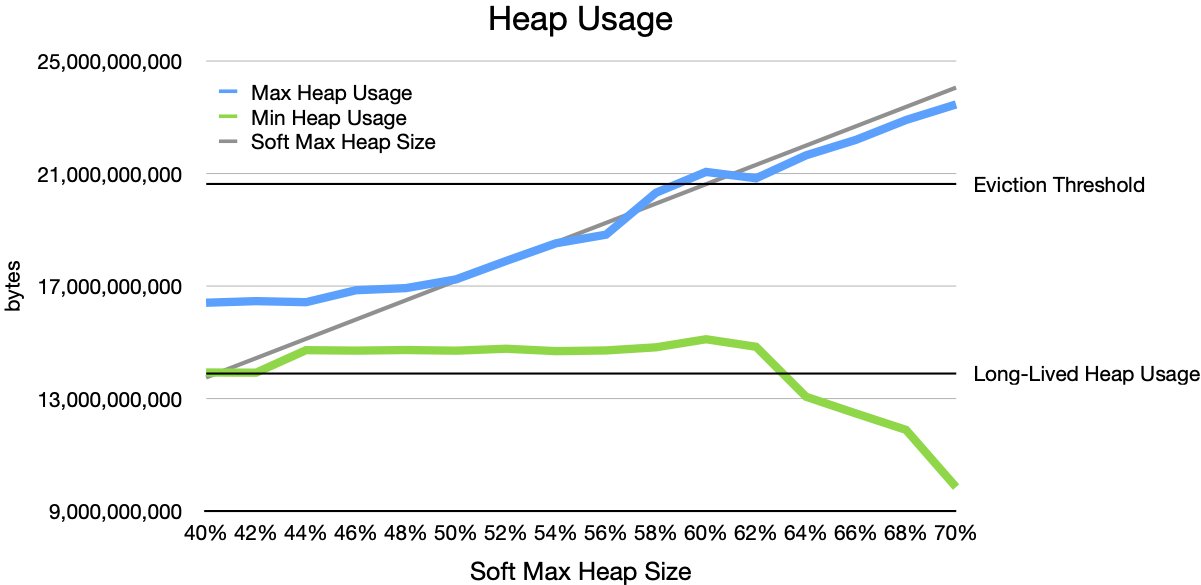
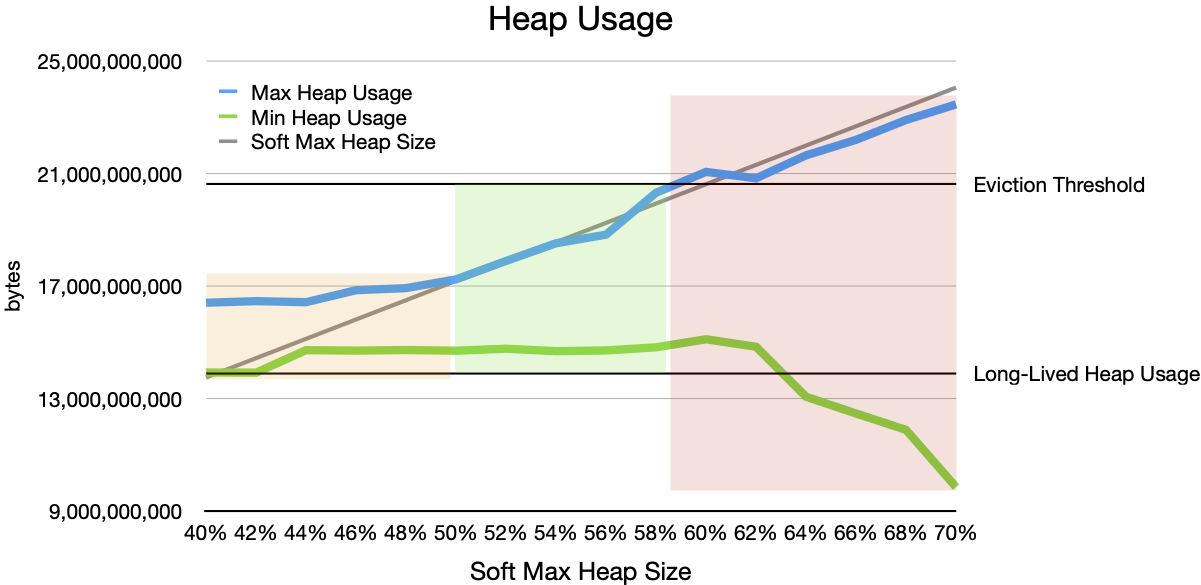
Complete draft

Changed region(s): [[0.154, 0.1538, 0.801, 0.8615]]

diff --git a/content/blog/zgc-and-heap-lru-eviction/index.md b/content/blog/zgc-and-heap-lru-eviction/index.md
@@ -1,108 +1,110 @@
 ---
-date: 2023-03-23
-description: How GemFire's heap LRU eviction works with Java's Z garbage collector.
-lastmod: '2023-03-24'
-team:
-- Dale Emery
-title: ZGC and GemFire Heap LRU Eviction
+date: 2023-03-30
+description: ZGC works with GemFire's heap LRU eviction to maximize cache performance.
+team: [Dale Emery]
+title: Maximizing GemFire Cache Performance with ZGC and Heap LRU Eviction
 type: blog
-draft: true
 ---
 
 ## Introduction
-Heap LRU eviction is an algorithm for maintaining cache performance while protecting against the risk of the JVM running out of memory. GemFire's heap LRU eviction algorithm relies on the JVM's garbage collector to very quickly collect the memory used by evicted entries. When tuned for this purpose, ZGC is well suited for use with heap LRU eviction.
+VMware GemFire offers a heap LRU eviction algorithm to maintain cache performance while protecting against the risk of the JVM running out of memory. Java 17's Z garbage collector (ZGC), when tuned for use with heap LRU eviction, works beautifully with GemFire to maximize cache performance.
 
 ### How Heap LRU Eviction Works
-Heap LRU eviction is an algorithm for maintaining cache performance while protecting against the risk of the JVM running out of memory. In VMware GemFire, heap LRU eviction works like this: GemFire continually monitors heap usage. When heap usage exceeds a user-configured eviction threshold, GemFire evicts entries from memory until heap usage falls back below the threshold.
+Heap LRU eviction is an algorithm for maintaining cache performance while protecting against the risk of the JVM running out of memory. In VMware GemFire, heap LRU eviction works like this: GemFire continually monitors heap usage. When heap usage exceeds a user-configured threshold, GemFire evicts eligible entries from memory until heap usage falls back below the threshold.
 
 Every entry evicted from memory increases the chance of a cache miss, which can reduce cache performance. To maintain cache performance, GemFire tries to evict the entries that are the least likely to be used in the near future. To choose which entries to evict, LRU eviction assumes that the least recently used entries are the least likely to be used again in the near future. When the workload satisfies this assumption, evicting the least recently used entries minimizes the chance of a cache miss.
 
 GemFire's heap LRU eviction algorithm relies on the JVM's garbage collector to very quickly collect the memory used by evicted entries. Evicting an entry does not, all by itself, make the entry's memory available for allocation. It merely makes the object and its memory "unreachable." This unreachable memory becomes available for allocation only when the garbage collector collects it. Until the memory from evicted entries is collected, heap usage remains high.
 
-### ZGC's Decision Heuristics
-Java 17's Z garbage collector (ZGC) works to ensure that any thread that requests memory can get it with minimal delay. And ZGC strives to do this with minimal impact on application performance.
+### How ZGC Decides When to Collect Garbage
+**ZGC Goals.** ZGC works to ensure that any thread that requests memory can get it with minimal delay. If an application thread attempts to allocate more memory than is currently available, ZGC pauses that thread until a garbage collection completes. This pause is called an _allocation stall._ ZGC works very hard to avoid allocation stalls, and to do this with minimal impact on application performance.
 
-If an application thread attempts to allocate more memory than is currently available, ZGC pauses that thread until a garbage collection completes. This pause is called an _allocation stall._ ZGC works very hard to avoid allocation stalls.
+**ZGC Decision Rules.** Ten times per second, ZGC samples the application's heap usage and memory allocation rate, then applies seven rules to decide whether to initiate garbage collection. One rule, the High Usage rule, checks whether heap usage is above ZGC's target maximum heap usage, or is close enough to the target to cause concern. Another, the Allocation Rate rule, predicts whether the application is likely to run out of available heap memory if ZGC does not intervene immediately.
 
-Ten times per second, ZGC samples the application's memory allocation rate, then evaluates a series of heuristics to decide whether to initiate garbage collection. One heuristic, the High Usage heuristic, checks whether current heap usage is currently above ZGC's target maximum heap usage, or is close enough to the target to cause concern. Another, the Allocation Rate heuristic, predicts whether heap usage would exceed the target maximum if ZGC didn't begin collecting immediately, given the application's recent allocation requests and ZGC's recent collection performance.
+### Tuning ZGC for Use with Heap LRU Eviction
+When tuned for the purpose, ZGC is well suited for use with heap LRU eviction. To tune ZGC well, you will need to know some key characteristics of your workload, and the key tuning knobs at your disposal.
 
-### Heap LRU Eviction and ZGC
-When tuned for the purpose, ZGC is well suited for use with heap LRU eviction. Java offers two key JVM options to tune ZGC for this use:
-- `-Xmx` sets the JVM's maximum heap size. For a given workload, a larger heap size reduces the chance of allocation stalls, and allows ZGC to work efficiently with fewer worker threads.
-- `-XX:SoftMaxHeapSize` sets ZGC's "soft" limit for maximum heap usage. ZGC will strive to keep heap usage below this limit, but may allow heap usage to exceed it when necessary. As I will show, setting `SoftMaxHeapSize` lower reduces the risk of eviction, but makes garbage collections more frequent and less efficient.
+**Workload heap usage.** To tune ZGC well, you will need to know several key characteristics of your workload's heap usage:
+- **Long-lived heap usage:** The amount of heap that GemFire requires in order to hold cached data in memory. This includes the memory used for the data's keys and values, plus the data structures that GemFire uses to maintain the data, plus other long-lived data structures that GemFire uses in order to present its services. Long-lived heap usage does not include the short-lived objects that GemFire uses to perform a particular operation.
+- **Live set size:** The amount of heap used by all live objects. This includes long-lived objects and any short-lived objects currently in use. Over time, GemFire's ZHeap Collection Used Memory statistic gives an approximation of live set size.
 
-Another key factor in a well-tuned GemFire system is the workload's _long-lived heap usage:_ The amount of heap that GemFire requires in order to hold cached data in memory. This includes the memory used for the data's keys and values, plus the data structures that GemFire uses to maintain the data, plus other long-lived data structures that GemFire uses in order to present its services. Long-lived heap usage does not include the transient objects that GemFire uses to perform a particular operation.
+**ZGC tuning knobs.** Java offers two key JVM options to tune ZGC for use with heap LRU eviction:
+- **`-Xmx`:** The JVM's maximum heap size. For a given workload, a larger heap size reduces the chance of allocation stalls, and allows ZGC to work efficiently with fewer worker threads.
+- **`-XX:SoftMaxHeapSize`:** ZGC's "soft" limit for maximum heap usage. ZGC will strive to keep heap usage below this limit, but may allow heap usage to exceed it when necessary. As I will show, setting `SoftMaxHeapSize` lower reduces the risk of eviction, but makes garbage collections more frequent and less CPU-efficient. Setting it higher reduces ZGC's CPU consumption, but increases the risk of eviction.
+
+**GemFire tuning knobs.** GemFire's primary tuning knob for governing heap LRU eviction is:
+- **`--eviction-heap-percentage`:** GemFire's target heap usage threshold, expressed as a percentage of max heap size. Whenever heap usage exceeds this threshold, GemFire evicts entries to bring heap usage down.
 
 ## Experimenting with SoftMaxHeapSize
-To quantify how `SoftMaxHeapSize` affects heap usage, operation throughput, and garbage collection performance, I ran a series of scenarios on a GCP instance with 16 CPUs. Each scenario:
+To understand how `SoftMaxHeapSize` affects heap usage, operation throughput, and garbage collection performance, I ran a series of scenarios on a GCP instance with 16 CPUs. Each scenario:
 1. Starts a GemFire server with max heap size (`-Xmx`) set to 32g and with GemFire's eviction threshold set to 60%.
 1. Pre-populates a set of heap LRU regions with enough total data to bring long-lived heap usage to about 40% of max heap size. The data consisted of 1,205,264 total entries, each holding a 10000 byte array. (Actual measured long-lived heap usage was 40.5%.)
 1. Runs 16 threads to perform as many updates as possible for 2 minutes. Each update replaces a randomly selected value in the cache with a new value of the same size (a 10000 byte array). This _sustained updates_ phase generates a great deal of garbage (about 2g per second) while keeping long-lived heap usage essentially constant.
 
 I varied `SoftMaxHeapSize` from 40%, just below long-lived heap usage, to 70%, well above the eviction threshold.
 
-**Experiments, Not Benchmarks.**
-I ran these scenarios as experiments, not as benchmarks. Each scenario uses 16 client threads running in a separate JVM but on the same GCP instance as the GemFire server. And several other minor processes coordinate the experiments. The results demonstrate general effects and trends, but should not be taken as an absolute measure of performance.
+**Experiments, not benchmarks.** I ran these scenarios as experiments, not as benchmarks. Each scenario uses 16 client threads running in a separate JVM but on the same GCP instance as the GemFire server. And several other minor processes coordinate the experiments. The results demonstrate general effects and trends, but should not be taken as an absolute measure of performance.
 
-**Garbage Production Rate.**
-In these scenarios, the sustained updates phase allocates memory at a rate of about 2000 mb/s:
+These scenarios generate an unusually uniform workload. In a production environment, the workload will be far more variable.
 
-![Allocation Rate](images/long-lived-40-allocation-rate.png)
+**Garbage production rate.** In these scenarios, the sustained updates phase allocates memory at [a rate of about 2000 mb/s](images/long-lived-40-allocation-rate.png).
 
 Given the nature of the scenarios, every allocation results in corresponding garbage. Some allocations are for new values that will live in the cache, but that replace existing values, leaving the old values unreachable. The remaining allocations are for short-lived objects that will become unreachable as soon as they complete their role in the operation.
 
-So the _Mean Allocation Rate_ graph shows not only the allocation rate, but also the garbage production rate. Each scenario produces a full heap worth of garbage (32g) every 16 seconds or so.
+This means that the measured allocation rate is also the garbage production rate. Each scenario produces a full heap worth of garbage (32g) every 16 seconds or so.
 
-### Heap Usage
+### How SoftMaxHeapSize Affects Heap Usage
 The _Heap Usage_ graph shows the minimum and maximum heap usage during the sustained updates phase of each scenario, as measured by ZGC's memory manager:
 
-![Heap Usage](images/long-lived-40-heap-usage-highlighted.png)
+![Heap Usage](images/long-lived-40-heap-usage.png)
+
+The colored zones highlight different patterns of performance. In the green zone, ZGC is able to keep heap usage below or near its target `SoftMaxHeapSize`, and the system is able to avoid eviction. In the orange zone, ZGC is unable to meet its `SoftMaxHeapSize` target despite collecting garbage constantly, consuming every CPU cycle available to it. In the red zone, despite ZGC keeping heap usage below or near `SoftMaxHeapSize`, GemFire evicts many entries from memory.
+
+Two key factors govern which performance pattern the system exhibits:
+- **Collection headroom:** The difference between `SoftMaxHeapSize` and the live-set size.
+- **Eviction headroom:** The difference between the eviction threshold and `SoftMaxHeapSize`.
+
+Note that even in the green zone, ZGC may need to perform many expensive garbage collections to keep heap usage at or below `SoftMaxHeapSize`. Later we will see that as `SoftMaxHeapSize` increases from the left side of the green zone to the right, ZGC's performance improves steadily, consuming fewer and fewer CPU cycles.
 
 #### Collection Headroom
-ZGC tries to keep heap usage below `SoftMaxHeapSize`. As the _Heap Usage_ graph shows, ZGC can meet this goal only if it has sufficient _collection headroom,_ the difference between `SoftMaxHeapSize` and long-lived heap usage.
+ZGC tries to keep heap usage below `SoftMaxHeapSize`. When it has enough collection headroom, as in the green and red zones on the graph, ZGC is able to meet this goal.
 
-The orange zone on the left side of the graph shows what happens if the collection headroom is too low: Given the rate of garbage production, ZGC cannot collect garbage fast enough to keep heap usage below `SoftMaxHeapSize`.
+In the orange zone, collection headroom is too low. Given the rate of garbage production and the live objects maintaining the cache and performing operations, ZGC cannot collect garbage fast enough to keep heap usage below `SoftMaxHeapSize`.
 
-Note that the first scenario sets `SoftMaxHeapSize` to 40% of max heap size. This is _below_ the long-lived heap usage (40.5% of max heap size). Having _negative_ collection headroom makes it impossible for ZGC to keep heap usage below `SoftMaxHeapSize`. Even in this impossible scenario, heap usage exceeded `SoftMaxHeapSize` by at most about 8% of max heap size.
-
-As `SoftMaxHeapSize` increases, ZGC is increasingly able to keep heap usage near or below `SoftMaxHeapSize`.
+Note that the first scenario sets `SoftMaxHeapSize` to 40% of max heap size. This is not only below the live-set size (approximated by the green line), but also below long-lived heap usage (40.5% of max heap size). Having _negative_ collection headroom clearly makes it impossible for ZGC to keep heap usage below `SoftMaxHeapSize`. Even in this impossible scenario, heap usage exceeded `SoftMaxHeapSize` by at most about 8% of max heap size.
 
 #### Eviction Headroom
-GemFire's heap LRU eviction algorithm tries to keep heap usage below the eviction threshold. To meet this goal, it will evict entries from memory if necessary.
+GemFire's heap LRU eviction algorithm tries to keep heap usage below the eviction threshold. To meet this goal, it will evict eligible entries from memory when necessary.
 
-To avoid evictions, the system needs sufficient _eviction headroom:_ the difference between the eviction threshold and `SoftMaxHeapSize`.
+To avoid evictions, the system needs eviction headroom. Each scenario generates garbage at a rapid pace, relentlessly pushing heap usage upward. Given enough eviction headroom, as in the orange and green zones, ZGC responds to the upward pressure in plenty of time to avoid evictions.
 
-Each scenario generates garbage at a rapid pace, relentlessly pushing heap usage upward. If `SoftMaxHeapSize` is set far enough below the eviction threshold, this upward pressure on heap usage triggers garbage collections in plenty of time to avoid evictions.
-
-If `SoftMaxHeapUsage` is set too high (above or too close to the eviction threshold), we see the result shown in the red zone on the right side of the _Heap Usage_ graph: By the time heap usage triggers a collection, GemFire has already evicted numerous entries. The number of entries evicted depends on how often heap usage rises above the eviction threshold and how long it stays there. With `SoftMaxHeapSize` set to 70% and the eviction threshold set to 60%, GemFire evicted nearly 600,000 entries (about half of the entries in the cache) in two minutes.
+In the red zone, eviction headroom is too low. As heap usage rises, it crosses the eviction threshold before it hits `SoftMaxHeapSize`. By the time the rising heap usage triggers a collection, GemFire has already evicted numerous entries. The number of entries evicted depends on how often heap usage rises above the eviction threshold and how long it stays there. With `SoftMaxHeapSize` set to 70% and the eviction threshold set to 60%, GemFire evicted nearly 600,000 entries (about half of the entries in the cache) in two minutes.
 
 ![Entries Evicted](images/long-lived-40-entries-evicted.png)
 
 ### Patterns of Heap Usage
-Once per second, GemFire samples many statistics, including ZHeap Current Used Memory (self-explanatory) and ZHeap Collection Used Memory (the amount of memory in use at the end of the most recent garbage collection cycle).
+Once per second, GemFire samples many statistics, including ZHeap Current Used Memory (self-explanatory) and ZHeap Collection Used Memory, the amount of memory in use at the end of the most recent garbage collection cycle. ZHeap Collection Used Memory gives a reasonable approximation of live-set size, though it will also include any garbage that was generated during the most recent garbage collection cycle.
 
-Let's look at how heap usage is affected by different settings of `SoftMaxHeapSize`, relative to the eviction threshold and the long-lived heap usage.
+Let's look at how heap usage is affected by different settings of `SoftMaxHeapSize`, relative to the eviction threshold and the live-set size.
 
 #### Insufficient Collection Headroom
-Here's what heap usage looks like during "negative collection headroom" scenario:
+Here's what heap usage looks like when ZGC is not given enough collection headroom:
 
 ![Insufficient Collection Headroom](images/long-lived-40-smhs-40-heap-usage.gif)
 
-Current usage never strays far from collection usage. This is a sign of insufficient collection headroom. Because current memory usage remains above `SoftMaxHeapSize` during the entire sustained updates phase, ZGC collects garbage continuously.
-
-Note also that during the sustained updates phase, the ZHeap Collection Used Memory is consistently higher than what I called "long-lived heap usage." This is due to the memory allocated to short-lived objects that participate in performing the updates. At any time during this phase, these short-lived objects occupy about 1g of memory.
+Current usage never strays far from collection usage. This is a sign of insufficient collection headroom. Because memory usage remains above `SoftMaxHeapSize` during the entire sustained updates phase, ZGC collects garbage continuously.
 
 #### Insufficient Eviction Headroom
-The heap usage pattern is very different when `SoftMaxHeapSize` is set above the eviction threshold, at 70% of max heap size:
+The heap usage pattern is very different when `SoftMaxHeapSize` is set  above the eviction threshold:
 
 ![Insufficient Eviction Headroom](images/long-lived-40-smhs-70-heap-usage.gif)
 
-In this scenario, ZHeap Current Used Memory shows frequent excursions above the eviction threshold. The result is that GemFire evicts entries from memory, which is reflected in the declining ZHeap Collection Used Memory.
+In this scenario, ZHeap Current Used Memory shows frequent excursions above the eviction threshold. The result is that GemFire evicts entries from memory. As entries are evicted and collected, the live-set size decreases, as reflected in the declining ZHeap Collection Used Memory.
 
 As we will see, collections are far less frequent in this scenario compared to the "insufficient collection headroom" scenario described above. But the cost is that many entries are evicted, increasing the likelihood of cache misses.
 
 #### Sufficient Collection Headroom and Eviction Headroom
-In this scenario, `SoftMaxHeapSize` is set well below the eviction threshold and well above the long-lived heap usage:
+In this scenario, `SoftMaxHeapSize` is set well below the eviction threshold and well above the live-set size:
 
 ![Sufficient Collection Headroom](images/long-lived-40-smhs-56-heap-usage.gif)
 
@@ -110,35 +112,42 @@ This gives the system sufficient collection headroom below `SoftMaxHeapSize` and
 
 Note that the requirements for eviction headroom and collection headroom depend highly on the nature of your workload. You will have to experiment to determine the requirements for your environment.
 
-### Throughput
+### How SoftMaxHeapSize Affects Throughput
 As `SoftMaxHeapSize` rises, application throughput rises (puts per second):
 
 ![Throughput](images/long-lived-40-throughput.png)
 
-In these scenarios, 16 client threads performed fixed-size puts as fast as possible for 2 minutes. Note that these client threads executed in a separate JVM, but on the same GCP instance as the GemFire server. So the client threads competed with the server operations and with ZGC for the instance's 16 CPUs.
+In each scenario, 16 client threads performed fixed-size puts as fast as possible for 2 minutes. Note that though the client and server executed in separate JVMs, they both ran on the same GCP instance. So the client threads competed with the server's operation threads and ZGC threads for the instance's 16 CPUs.
 
-The throughput curve is subtly S-shaped, with a slightly higher slope in the middle of the graph than at either end. When `SoftMaxHeapSize` is set too low, the garbage collection tasks interfere with performance, keeping throughput slightly flatter on the left side of the graph. The graph also flattens subtly at the right side of the graph, as collection CPU utilization approaches 0.
+The throughput curve is slightly S-shaped, with a slightly higher slope in the middle of the graph than at either end. When `SoftMaxHeapSize` is set too low, the garbage collection tasks interfere with performance, keeping throughput slightly flatter on the left side of the graph. On the right side of the graph, the slope decreases slightly as collection CPU utilization asymptotically approaches 0.
 
-To see how garbage collection tasks interfere with throughput, let's first look at the mean number of CPUs occupied by garbage collection during each scenario:
+When ZGC has insufficient collection headroom, it collects garbage more often and assigns more threads to the garbage collection tasks. In the scenarios where collection headroom was lowest, ZGC kept 4 CPUs busy at nearly all times. This is the maximum number of CPUs that ZGC will assign by default on a 16 CPU host.
 
-![Mean Worker Count](images/long-lived-40-collection-cpu-utilization.png)
+![Collection CPU Usage](images/long-lived-40-collection-cpu-utilization.png)
 
-When ZGC has insufficient collection headroom, collects garbage more often and assigns more threads to the garbage collection tasks. If collection headroom is low enough, as in the scenarios where `SoftMaxHeapSize` was near or even below long-lived heap usage, ZGC kept 4 CPUs busy at nearly all times.
+If we subtract the number of CPUs busy doing garbage collection from the total number of CPUs (16), we get the number of CPUs available for other tasks:
+![Available CPUs](images/long-lived-40-cpu-availability.png)
 
-If we subtract the number of CPUs busy doing garbage collection from the total number of CPUs, we get the number of CPUs available for other tasks:
+This graph has essentially the same shape as the throughput graph. The lesson is clear: To maximize throughput, give ZGC plenty of collection headroom.
 
-![Mean Worker Count](images/long-lived-40-cpu-availability.png)
-
-This graph is essentially the same as the throughput graph. The lesson is clear: To maximize throughput, give ZGC plenty of collection headroom.
-
-On a 16 CPU host, ZGC by default uses a maximum of 4 threads for garbage collection. In the scenarios where `SoftMaxHeapSize` is too low, and ZGC does not have enough collection headroom, garbage collection on average keeps nearly 1/4 of the instance's CPUs busy at all times.
+### How SoftMaxHeapSize Affects Garbage Collection Performance
+As collection headroom increases, the frequency of garbage collections drops:
 
 ![Collections](images/long-lived-40-collections.png)
 
-In the scenarios where `SoftMaxHeapSize` is too low, and ZGC does not have enough collection headroom, ZGC performs garbage collections at the rate of 2 per second.
+In the scenarios where collection headroom is too low, ZGC performs garbage collections at the rate of 2 per second.
 
-When `SoftMaxHeapSize` is too low, and ZGC does not have enough collection headroom, ZGC uses a total 464 CPU seconds for the collections. Given that nearly all of the collections occur during the sustained update phase, which lasts 2 minutes, ZGC is keeping an average of 3.87 CPUs busy at all times.
+At the same time, the mean CPU consumption of each collection also drops, even as the garbage production rate rises:
 
 ![Collection CPU Time](images/long-lived-40-collection-cpu-time.png)
 
-As `SoftMaxHeapSize` rises, the average collection CPU time drops off slightly, even as the garbage production rate increases.
+## Summary
+Setting `SoftMaxHeapSize` higher creates more collection headroom, making ZGC more efficient at collecting garbage, but at the risk of triggering GemFire to evict entries from memory.
+
+Setting `SoftMaxHeapSize` lower creates more eviction headroom, decreasing the risk of eviction, but at the cost of making garbage collection more frequent and more costly.
+
+The more collection headroom the system has, the more efficient ZGC's garbage collections will be. The more eviction headroom the system has, the better able GemFire will be to avoid evicting entries from memory.
+
+Along with max heap size, ZGC's `SoftMaxHeapSize` JVM option is a key tuning knob to maximize cache performance by avoiding eviction and reducing the cost of garbage collections.
+
+If your GemFire clusters use heap LRU eviction, now is the time to take a closer look at Java 17 and ZGC.
